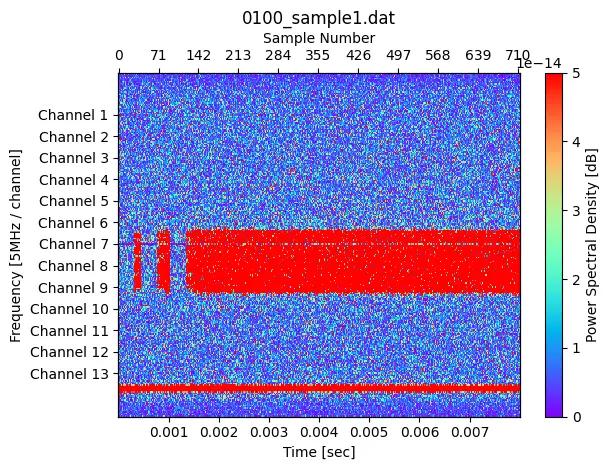
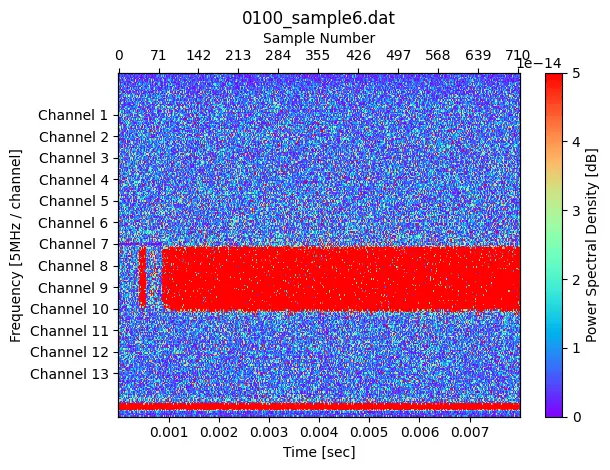
chore: changed image and added special thanks

diff --git a/src/data/blogs.jsx b/src/data/blogs.jsx
@@ -136,7 +136,7 @@ export const blogs = [
 				<p>
 					<img
 						src="/assets/images/blogs/spectrum-sensing/spectrum-example.webp"
-						alt="Diagram showing transmission over Wi-Fi channel 7, 8 and 9 centering around 8"
+						alt="Diagram showing transmission over Wi-Fi channel 7, 8, 9 and 10 centering around 8"
 					/>
 				</p>
 				<blockquote>
@@ -202,6 +202,13 @@ export const blogs = [
 					I am done with university. I hope you enjoyed reading about my thesis topic, and I hope I have
 					described it in a way that was understandable to most, if not all, readers. If you have any comments
 					or questions, please leave them in the comments below; I would love to read them!
+				</p>
+				<p>
+					Special thanks to{' '}
+					<a href="https://www.linkedin.com/in/grzegorz-bogdan/" target="_blank">
+						dr. inz. Gregorz Bogdan
+					</a>{' '}
+					for supervising my master's thesis.
 				</p>
 			</>
 		),
